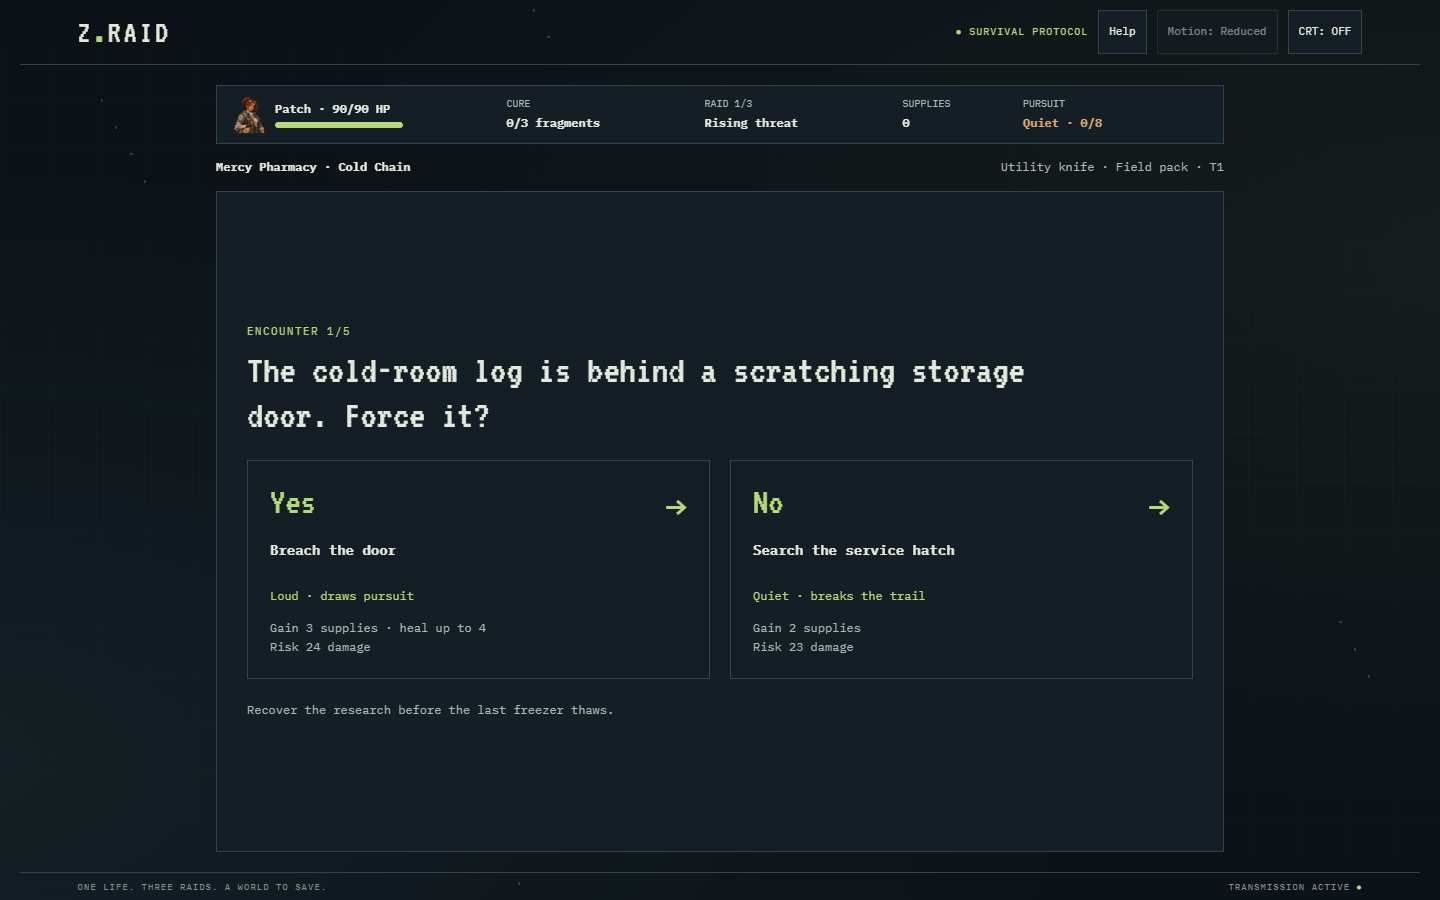
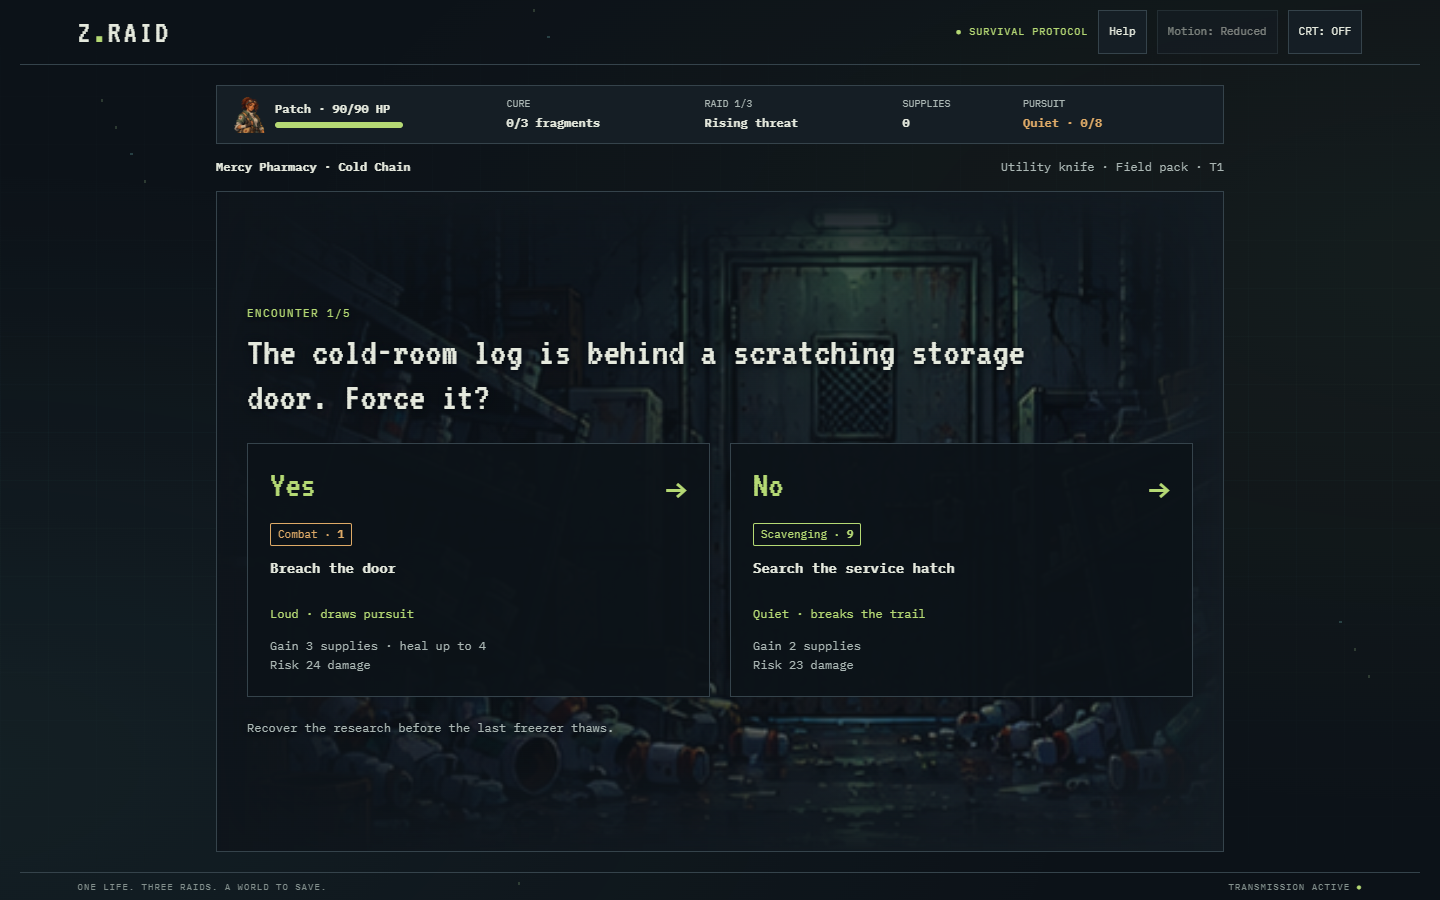
Show decision stats and add thirty illustrated encounter backgrounds

diff --git a/game.js b/game.js
@@ -6,7 +6,7 @@
   const manual=[
     ['The mission','Choose a survivor for the whole run. Survive five encounters per raid to earn a cure fragment. Collect three fragments to save the world.','One life. Zero health clears fragments, upgrades and supplies. Reloading also starts fresh.'],
     ['Know your survivor','Combat helps with fights and forced entry. Stealth helps with hiding and navigation. Scavenging helps with searches and repairs.','Weapons and gear change these strengths. Specialize or pick complementary tools. Your survivor is fixed; your route and loadout can change at camp.'],
-    ['Make the call','Yes and No describe specific actions. Both can succeed or fail. Your stats, equipment, location and raid difficulty shape the hidden checks.','Better stats never guarantee survival. Use the action, possible rewards and damage to judge the route.'],
+    ['Make the call','Yes and No describe specific actions. Each option names the stat it uses and your effective value after equipment and upgrades. Both can succeed or fail. Location and raid difficulty also shape the hidden checks.','Better stats never guarantee survival. Use the action, possible rewards and damage to judge the route.'],
     ['Watch pursuit','Loud routes draw infected even on success. Quiet routes break the trail. Failures also attract attention.','Pursuit runs from 0 to 8. More pursuit makes later checks tougher and injuries worse. Neither Yes nor No is always quiet. Pursuit clears at camp.'],
     ['Camp & upgrades','Camp restores 8 health plus 2 per supply, using at most 6 supplies: up to 20 health, capped at your maximum. All supplies are consumed.','Each completed raid upgrades all eight items by +1 in their specialty. Vest armor and kit healing improve too. Later raids are more dangerous.'],
     ['Controls & display','Use touch, mouse, or Tab and Enter/Space. Browse the choices, read the selected item, then continue. Back lets you revise your loadout.','Motion toggles animation. CRT adds scanlines. Reduced-motion settings stop animation automatically. Runs are not saved.']
@@ -39,9 +39,9 @@
     const s=state,l=R.item('locations',s.location),e=s.encounters[s.index],g=R.item('gear',s.gear);
     const context=`<div class="raid-context"><b>${l.name} · ${s.storyline.name}</b><span>${R.item('weapons',s.weapon).name} · ${g.name} · T${s.tier+1}</span></div>`;
     let content;
-    if(s.phase==='raid')content=`${heading(`ENCOUNTER ${s.index+1}/5`,e.question)}<div class="decision-grid">${['yes','no'].map(answer=>{const x=e[answer],heal=x.heal+(g.healing||0)+(g.healing?s.tier:0);return `<button class="decision" data-action="${answer}"><strong>${label(answer)} <span>→</span></strong><b>${x.action}</b><span class="pursuit">${hint(x)}</span><small>Gain ${x.supplies+(g.supplies||0)} supplies${heal?` · heal up to ${heal}`:''}<br>Risk ${R.damage(s,x)} damage</small></button>`;}).join('')}</div><p class="odds-note">${s.index===0?s.storyline.mission:'Both routes carry risk. Neither guarantees survival.'}</p>`;
+    if(s.phase==='raid')content=`${heading(`ENCOUNTER ${s.index+1}/5`,e.question)}<div class="decision-grid">${['yes','no'].map(answer=>{const x=e[answer],heal=x.heal+(g.healing||0)+(g.healing?s.tier:0);return `<button class="decision" data-action="${answer}"><strong>${label(answer)} <span>→</span></strong><span class="decision-stat ${x.stat}" aria-label="Uses effective ${label(x.stat)} stat: ${R.item('characters',s.character)[x.stat]+R.bonuses(s,x.stat)}">${label(x.stat)} · <span>${R.item('characters',s.character)[x.stat]+R.bonuses(s,x.stat)}</span></span><b>${x.action}</b><span class="pursuit">${hint(x)}</span><small>Gain ${x.supplies+(g.supplies||0)} supplies${heal?` · heal up to ${heal}`:''}<br>Risk ${R.damage(s,x)} damage</small></button>`;}).join('')}</div><p class="odds-note">${s.index===0?s.storyline.mission:'Both routes carry risk. Neither guarantees survival.'}</p>`;
     else{const x=s.last;content=`<div class="outcome ${x.success?'good':'bad'}" role="status">${heading(`ENCOUNTER ${s.index+1}/5 · ${x.success?'✓ SUCCESS':'✕ FAILED'}`,x.action)}${narration(x)}<div class="outcome-reward">${x.damage?`−${x.damage} health`:`+${x.supplies} supplies · +${x.healing} health`}</div></div><div class="screen-actions single">${btn(s.index===4?'Return to camp →':'Continue →','next')}</div>`;}
-    return `<section class="screen raid-screen">${hud()}${context}<div class="raid-body">${content}</div></section>`;
+    return `<section class="screen raid-screen">${hud()}${context}<div class="raid-body has-scene">${ZEncounterArt(s.location,e.scene)}${content}</div></section>`;
   }
   function ending(){const s=state;let icon,kicker,title,text,info,action;
     if(s.phase==='summary'){icon='fragment';kicker='RAID COMPLETE';title='You made it back.';text=s.storyline.ending;info=`<b>${s.completed}/3 cure fragments recovered</b><p>Camp: +${s.recovery} HP · ${s.usedSupplies} supplies consumed.</p><p>Health ${s.hp}/${R.item('characters',s.character).health} · pursuit cleared.</p><p>Tier ${s.tier+1} unlocked for all equipment.<br>+1 specialty · improved vest armor & kit healing.</p><p class="detail-note">Next raid: tougher checks and +${s.completed*5} base damage.</p>`;action=btn('Prepare next raid →','prepare');}

diff --git a/styles.css b/styles.css
@@ -32,3 +32,13 @@ body.motion-off button{transition:none}
 @media(max-height:740px){.screen{gap:10px;padding-top:12px;padding-bottom:12px}.screen-heading h1{font-size:32px}.selection-layout{gap:14px}.choice{min-height:58px}.option-list{gap:8px}.portrait{height:110px}.raid-body{gap:14px;padding:20px}.result{gap:8px}.result-art{width:44px;height:44px}.result-panel{padding:12px}.result-panel p{margin:6px 0}}
 @media(max-width:600px) and (max-height:740px){.screen-heading h1{font-size:28px}.hero h1{font-size:88px}.character-screen .portrait{width:80px;height:90px}.prep-screen .screen-heading p{margin-top:3px}.prep-screen .selected-detail .eyebrow{font-size:9px}.prep-screen .selected-detail h2{font-size:18px}.raid-body{padding:12px;gap:12px}.raid-body h1{font-size:27px}.result .screen-heading h1{font-size:30px}.selected-detail{gap:10px}.prep-screen .selected-detail p{margin:6px 0}}
 @media(prefers-reduced-motion:reduce){*{transition:none!important;animation:none!important}.crt::after{display:none}.hero::after{display:none}}
+
+/* Encounter scenery is decorative; text and controls keep their own contrast. */
+.raid-body.has-scene{position:relative;isolation:isolate;overflow:hidden}
+.encounter-scene{position:absolute;inset:0;width:100%;height:100%;opacity:.7;pointer-events:none;z-index:-2;mask-image:linear-gradient(90deg,transparent,#000 16%,#000 84%,transparent),linear-gradient(transparent,#000 16%,#000 84%,transparent);mask-composite:intersect}
+.raid-body.has-scene::before{content:'';position:absolute;inset:0;background:linear-gradient(90deg,#0c1218c9,#0c12184d);pointer-events:none;z-index:-1}
+.has-scene>.screen-heading h1,.has-scene>.screen-heading .eyebrow,.has-scene>.odds-note{text-shadow:0 2px 4px #050a10,0 0 12px #050a10}
+.has-scene .decision{background:#0c1218ed}.has-scene .decision:hover{background:#1d2d30ed}.has-scene .outcome{background:#0c1218ed}
+.decision-stat{align-self:flex-start;font-size:11px;line-height:1.4;padding:3px 7px;border:1px solid currentColor;border-radius:2px;color:var(--green);white-space:nowrap}
+.decision-stat.combat{color:#deaa67}.decision-stat.stealth{color:#77c9c5}.decision-stat span{font-weight:700}
+@media(max-width:600px){.decision{gap:6px}.decision-stat{font-size:10px;padding:2px 5px}.raid-body.has-scene::before{background:#0c12188c}}

diff --git a/art.js b/art.js
@@ -54,3 +54,16 @@ window.ZArt = (() => {
     return `<svg class="pixel ${cls}" viewBox="0 0 64 64" aria-hidden="true" shape-rendering="crispEdges">${cache.get(id)}</svg>`;
   };
 })();
+
+/* Narrative scenes use one atlas per location; the SVG viewport isolates a beat. */
+window.ZEncounterArt = (location,scene) => {
+  const atlases={
+    pharmacy:[1122,1402,[0,280,561,841,1122,1402]],
+    metro:[1122,1402,[0,280,561,841,1114,1402]],
+    checkpoint:[1122,1402,[0,280,536,816,1093,1402]]
+  };
+  const [width,height,rows]=atlases[location],row=Math.floor(scene/2);
+  // A small inset removes the seam; generated panels are not always equal-height.
+  const w=width/2-4,h=rows[row+1]-rows[row]-4,x=(scene%2)*width/2+2,y=rows[row]+2;
+  return `<svg class="encounter-scene" data-location="${location}" data-scene="${scene}" viewBox="${x} ${y} ${w} ${h}" preserveAspectRatio="xMidYMid slice" aria-hidden="true" focusable="false"><image href="assets/encounters-${location}.png" width="${width}" height="${height}"/></svg>`;
+};

diff --git a/stories.js b/stories.js
@@ -175,11 +175,11 @@ window.ZStories = (() => {
     ]
   };
   for (const location of C.locations) {
-    location.storylines = arcs[location.id].map(arc => ({
+    location.storylines = arcs[location.id].map((arc, arcIndex) => ({
       id: arc.id, name: arc.name, mission: arc.mission, ending: arc.ending,
-      encounters: arc.beats.map(row => {
+      encounters: arc.beats.map((row, beatIndex) => {
         const source = location.encounters[row[0]];
-        return {...source, question: row[1], yes: {...source.yes, story: {success:row[2],failure:row[3]}}, no: {...source.no, story: {success:row[4],failure:row[5]}}};
+        return {...source, scene: arcIndex * 5 + beatIndex, question: row[1], yes: {...source.yes, story: {success:row[2],failure:row[3]}}, no: {...source.no, story: {success:row[4],failure:row[5]}}};
       })
     }));
   }

diff --git a/DEVELOPMENT.md b/DEVELOPMENT.md
@@ -6,7 +6,7 @@ An original 16-bit-style zombie survival game. Pick a character, raid the ruins,
 
 Open `index.html` directly in a modern browser. No installation, build, backend or database is needed. For a local HTTP preview, run `python -m http.server 8080` in this folder and visit http://localhost:8080.
 
-Use mouse, touch, or Tab and Enter/Space. Start Game → choose one of three survivors → choose a location, weapon and gear → Begin Raid. Every encounter offers explicit Yes and No actions. Check stats, odds and random rolls are hidden from players; probability calculations still run behind the scenes. Continue after each result. Five encounters survived earn one fragment; three successful raids trigger victory. Your character stays fixed, while route and equipment can change at camp.
+Use mouse, touch, or Tab and Enter/Space. Start Game → choose one of three survivors → choose a location, weapon and gear → Begin Raid. Every encounter offers explicit Yes and No actions. Each decision names its check stat and effective value after equipment and upgrades. Success odds and random rolls are hidden from players; probability calculations still run behind the scenes. Continue after each result. Five encounters survived earn one fragment; three successful raids trigger victory. Your character stays fixed, while route and equipment can change at camp.
 
 ## Rules and balance
 
@@ -22,9 +22,9 @@ Use mouse, touch, or Tab and Enter/Space. Start Game → choose one of three sur
 
 ## Static hosting / Cloudflare Pages
 
-The production site is the Cloudflare Worker **z-raid** at `https://z-raid.thehawk6353.workers.dev/`. `wrangler.jsonc` points directly at the current game files in the repository root; `.assetsignore` limits uploads to the seven runtime HTML/CSS/JS files and six artwork files. `_headers` makes browsers revalidate assets after updates. No generated copy of the site or front-end build step is involved.
+The production site is the Cloudflare Worker **z-raid** at `https://z-raid.thehawk6353.workers.dev/`. `wrangler.jsonc` points directly at the current game files in the repository root; `.assetsignore` limits uploads to the seven runtime HTML/CSS/JS files and nine artwork files. `_headers` makes browsers revalidate assets after updates. No generated copy of the site or front-end build step is involved.
 
-For Workers Builds, connect **Matthew-Hawk/Z-Raid**, branch **main**, root directory **/**, leave the build command empty, and use **npx wrangler deploy** (or **npm run deploy**) as the deploy command. A command that only uploads a version does not necessarily update production. Wrangler is pinned in `package.json` and `package-lock.json`; Cloudflare's build image needs Node 22 or newer. For local deployment, run `npm ci`, authenticate using `npx wrangler login`, then `npm run deploy`. `npm run dev` previews the same Cloudflare asset configuration locally. `npm run verify:live` compares all thirteen live runtime files with the checkout, normalizing Git text line endings and fails if any file is missing or stale.
+For Workers Builds, connect **Matthew-Hawk/Z-Raid**, branch **main**, root directory **/**, leave the build command empty, and use **npx wrangler deploy** (or **npm run deploy**) as the deploy command. A command that only uploads a version does not necessarily update production. Wrangler is pinned in `package.json` and `package-lock.json`; Cloudflare's build image needs Node 22 or newer. For local deployment, run `npm ci`, authenticate using `npx wrangler login`, then `npm run deploy`. `npm run dev` previews the same Cloudflare asset configuration locally. `npm run verify:live` compares all sixteen live runtime files with the checkout, normalizing Git text line endings and fails if any file is missing or stale.
 
 For other static hosts, upload `index.html`, `styles.css`, `content.js`, `stories.js`, `engine.js`, `art.js`, `game.js`, and `assets/` together. Cloudflare Pages can still use framework **None**, no build command, and repository-root output (`.`). The game itself needs no dependencies. All file references are relative, so subdirectory hosting works too. Google Fonts is optional; built-in monospace fallbacks keep the game readable offline.
 
@@ -39,6 +39,7 @@ For other static hosts, upload `index.html`, `styles.css`, `content.js`, `storie
 - `art.js`: cropped transparent survivor and equipment illustrations, plus native 64px SVG location, infected and cure sprites. Every atlas window has its own SVG clip path so neighboring illustrations cannot leak into letterboxed portraits. CSS keeps the same display sizes as the responsive layout.
 - `assets/survivors-stylized.png`: three expressive survivor portraits, created with built-in imagegen. Prompt: “Three original waist-up survivor portraits on transparent alpha: broad battle-worn Rook in olive armor with amber trim; lean hooded Echo with cyan scarf and alert eyes; auburn-haired field-medic Patch with goggles, sage coat and medical satchel. Polished stylized 16-bit-inspired pixel illustration, fine stepped contours, multi-tone shading, strong silhouettes, asymmetrical poses, no lettering or scenery.”
 - `assets/equipment-stylized.png`: four weapons and four gear illustrations, created with built-in imagegen. Prompt: “Eight isolated original item illustrations in a four-by-two transparent atlas: diagonal battered nail bat; elegant recurve bow and arrow; chunky service pistol; broad utility knife with wrapped grip; segmented olive armor vest; soft courier boots; cream/tan medical kit; overstuffed explorer field pack. Bold exaggerated silhouettes, crisp fine pixel clusters, worn material details, multi-tone shading, warm highlights and cyan edge light. No text, scenery or frames.”
+- `assets/encounters-pharmacy.png`, `assets/encounters-metro.png`, `assets/encounters-checkpoint.png`: thirty scene-specific backgrounds generated with built-in imagegen; full prompts in `ENCOUNTER_ART.md`. Each ten-scene atlas follows its two storylines in reading order. SVG viewports show only the current scene. Scenery fills the raid panel, uses 70% opacity with intersecting horizontal/vertical fade masks and a dark readability overlay, and remains behind opaque controls.
 - `assets/locations-stylized.png`: three transparent location dioramas, created with built-in imagegen. Prompt: “Three separate isometric environment miniatures in one horizontal row of equal square cells. Stylized 16-bit-inspired fine pixel clusters, stepped contours, rich shading, worn materials, strong small-scale silhouettes. Mercy Pharmacy: cracked brick storefront, glowing moss-green medical cross, medicine shelves, vines and green-lit cold storage. Hollow Metro: arched underground tunnel, cyan lights, flooded reflective tracks, damaged platform and stranded train. Checkpoint 09: amber striped barriers, chain-link fence, olive guard tower and searchlight, fortified arch, salvage crates and red beacon. Consistent camera and scale, navy shadows with warm highlights and cyan rim light. Transparent background, generous separation, no people, text, logos or frames.”
 - `viewport-check.cjs`: browser QA for actual element bounds and panel overflow, all selections, manual pages, both outcomes, summaries and endings. Run with optional width argument (e.g. `375`) to limit to one viewport. `browser-check.cjs` runs this suite.
 - `assets/title.png`: 16-bit-style ruined-city backdrop, edited with the built-in imagegen tool using the previous backdrop as a composition reference. Final prompt: “Upgrade the whole scene to polished 16-bit era SNES / Mega Drive pixel art, with finer deliberate pixel clusters, rich multi-tone shading, detailed readable sprites and layered atmospheric depth. Retain the wide composition: three survivors at the bottom, ruined pharmacy on the left, infected horde across the street, fortified quarantine checkpoint, abandoned vehicles and moonlit skyline. Navy/teal, moss green contaminated light and muted amber streetlights. Distinct teal courier, broad olive soldier and green medic. Crisp pixel edges; no lettering, logos, UI, watermark or photographic texture.”
@@ -74,3 +75,7 @@ Results use two compact views to preserve the 375 × 667 minimum. The story conc
 A 230,400-run before/after comparison measured all-Yes 8.2% → 8.5%, all-No 15.0% → 15.7%, random 10.7% → 11.2%, and informed 31.4% → 32.8%. Ordered encounter grouping changes the encounter distribution, but probability, damage, rewards, pursuit and recovery formulas are unchanged. Adaptive choices remain substantially more effective than a fixed answer.
 
 Location artwork verification: the new atlas decodes successfully and every location selection references it. Desktop 1440 × 900 and iPhone SE 375 × 667 passed 290 viewport checks with no scrolling, clipping or JavaScript errors. The local Cloudflare preview passed the 13-file deployment comparison.
+
+Encounter interface verification: 599 viewport checks passed across 375 × 667, 390 × 844, 768 × 1024, 1366 × 768 and 1440 × 900. Checks cover the effective stat and current scene for every raid moment, fade-mask/70% opacity/full-height rendering, hidden percentages, resizing, and all outcomes. Rule checks passed 144 loadouts and narrative checks passed 5,760 character/loadout results with unchanged numeric effects.
+
+All three generated encounter atlases decoded successfully and covered thirty unique authored moments. Actual row seams are recorded in the artwork renderer, with a two-pixel inset to exclude adjacent panels. Local Cloudflare verification passed all sixteen runtime files.

diff --git a/ENCOUNTER_ART.md b/ENCOUNTER_ART.md
@@ -1,0 +1,19 @@
+# Encounter illustration prompts
+
+Generated with the built-in imagegen tool. Each location's prompt below was appended to the shared prompt. Files live in `assets/encounters-pharmacy.png`, `assets/encounters-metro.png` and `assets/encounters-checkpoint.png`. Ten scenes per atlas, ordered left to right, then top to bottom, correspond to the two storylines' five moments. SVG viewports select a scene without modifying the generated pixels.
+
+## Shared prompt
+
+Create ONE environment scene atlas for Z-RAID. EXACTLY ten LANDSCAPE panels in a STRICT 2-column by 5-row grid, edge-to-edge cells of equal size, no borders or gutters. Each cell is a complete separate scene; no objects cross boundaries. Overall portrait canvas 4:5, each panel landscape 8:5. Stylized polished 16-bit-inspired fine pixel illustration matching the game's recent location dioramas: rich worn materials, navy shadows, teal rim light, muted amber and green accents, strong readable narrative props. Camera at human eye level, atmospheric cinematic composition, suitable as subtle background behind white encounter text. Dark left areas, main focal prop toward center/right. No words, lettering, numbers, captions, UI, logos, watermark. Depict only the situation before a decision, no victorious outcome, no identifiable player character. Non-graphic zombie silhouettes allowed. Read cells row-major left to right, top to bottom.
+
+## Mercy Pharmacy
+
+Abandoned pharmacy, moss-green medical lighting. Ten panels: 1 scratching locked storage door flanked by fallen shelves; 2 medicine cabinet tangled in visible alarm wire; 3 infected pharmacist silhouette blocking a green-lit cold-room door; 4 chemical spills pooling across stairs leading to freezer; 5 humming research freezer with frosted vials and records; 6 wrecked ambulance beside pharmacy with intact side window and dispatch papers inside; 7 damaged radio receiver lit on pharmacy desk; 8 sinister stalking silhouette between aisle shelves; 9 loose ceiling panel above shelving with journal tucked into cavity; 10 closed metal exit shutter and ruined loading bay.
+
+## Hollow Metro
+
+Flooded abandoned subway, deep blue/cyan lighting. Ten panels: 1 ticket-booth locked glass manifest case; 2 sparking switchboard beside dark shipment platform with flickering lights; 3 infected transit guard holding key beside barred tunnel gate; 4 inside research train carriage with sleeping infected slumped between seats and document shipment at far end; 5 flooded station passage with submerged debris and overhead gantry; 6 courier map resting amid sleeping infected nest; 7 courier pack dangling over rail bed from overhead cable; 8 shadowy infected underneath train beside sealed courier cache; 9 unattended maintenance trolley rolling toward camera on exit track, alcove beside it; 10 jammed emergency iron escape gate beside climbable station wall.
+
+## Checkpoint 09
+
+Abandoned military quarantine complex, olive/navy with amber lights and red beacons. Ten panels: 1 sweeping searchlight across fortified yard toward lab entrance; 2 surveillance quadrotor scanning empty barrier-lined yard; 3 booby-trapped supply crate with tripwire and access tool visible through crack; 4 heavily armored infected silhouette blocking laboratory entrance; 5 powered formula safe with illuminated keypad and sealed research files; 6 infected uniformed officer carrying marked briefcase outside bunker command tent; 7 leaking fuel generator with wet hose beside bunker; 8 frozen shut steel bunker hatch covered in frost; 9 infected lunging from behind escape-route crates with trenches beyond; 10 broadcasting antenna surrounded by gathering horde silhouettes, narrow trenches running toward exit.
